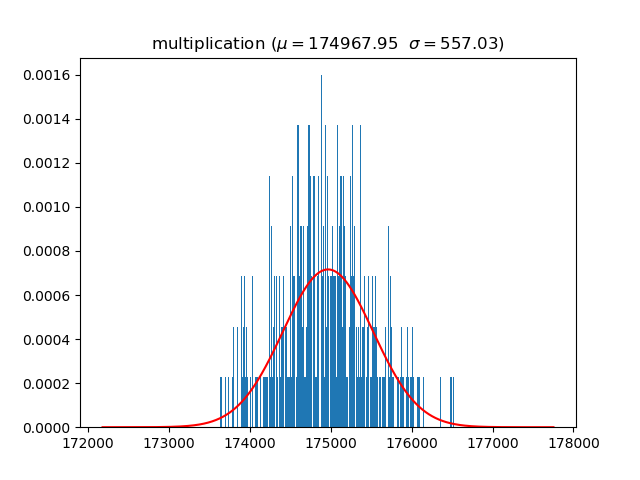
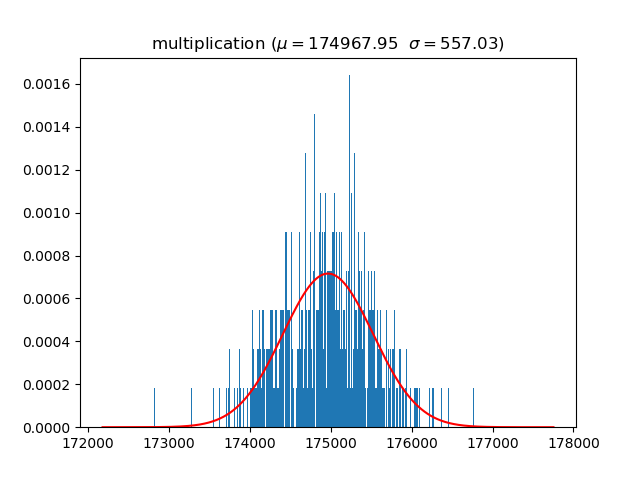
major update

diff --git a/ec_elgamal.py b/ec_elgamal.py
@@ -13,19 +13,50 @@ from scipy.stats import norm
 import statistics as stat
 import scipy.stats as stats
 import matplotlib.pyplot as plt
+import yaml
+from argparse import ArgumentParser
+
+# =============================
+# option analysis
+# =============================
+def get_option(ecparams, loop, tlength, weight):
+  argparser = ArgumentParser()
+  argparser.add_argument('-ecp', '--ecparams', type=str,
+                          default=ecparams,
+                          help='Specify type of ec-parameter')
+  argparser.add_argument('-l', '--loop', type=int,
+                          default=loop,
+                          help='Specify number of loops')
+  argparser.add_argument('-t', '--tlength', type=int,
+                          default=tlength,
+                          help='Specify number of t-length')
+  argparser.add_argument('-w', '--weight', type=int,
+                          default=weight,
+                          help='Specify number of hamming weight')
+  return argparser.parse_args()
+
+
+# =============================
+# yaml import
+# =============================
+args = get_option('config1', 1000, 256, 128)
+with open('./parameters/'+args.ecparams+'.yml', 'r') as yml:
+  config = yaml.load(yml, Loader=yaml.FullLoader)
 
 # =============================
 # global constants
 # =============================
-INF = -1
-MODULO_P = 0xfffffffffffffffffffffffffffffffffffffffffffffffffffffffefffffc2f # 256bit
-BIT = 256
-A = 0x0000000000000000000000000000000000000000000000000000000000000000
-B = 0x0000000000000000000000000000000000000000000000000000000000000007
-N = 100
+INF = 999999999999999999999999999999999999999999999999999999999999999999999999999999999999999999
+MODULO_P = int(config['ec_params']['modulo_p'])
+A = int(config['ec_params']['a'])
+B = int(config['ec_params']['b'])
+BIT = len(bin(MODULO_P)[2:])
+N = 100 # N is used when convert Message to Point, and Point to Message
 P_DOUBLE = 5/6
 P_ADD = 2/3
-LOOP = 500
+LOOP = args.loop
+ALPHA = (12*math.log(2)*math.log(2**BIT))/(math.pi**2) + 1.467
+SIGMA_BASE = config['ec_params']['sigma_base'] # depend on MODULO_P
 
 # =============================
 # variables for analysis
@@ -115,6 +146,14 @@ def modinv(a: int, m: int):
   (inv, _, _) = egcd(a, m)
   return opr.modulo(inv, m) # not perform reductions.
 
+def generate_d(t: int, w: int):
+  # generate a list with the correct number of 1's
+  x = [1]*(w-1)+[0]*(t-w)
+  random.shuffle(x)
+  x = [1]+x
+  # convert back to a number
+  return int(''.join(map(str, x)), 2)
+
 # return true if called from ElGamalDec
 def calledFromElGamalDec():
   stack = inspect.stack()
@@ -201,25 +240,27 @@ def ElGamalDec(C1: Point, C2: Point, d: int):
 # main function
 # =============================
 if __name__ == '__main__':
-  GP = MsgToPoint(0xffffffff222ffff9dcbbac55eeefffffffff)
+  GP = MsgToPoint(generate_d(args.tlength-1, args.weight))
 
   # generate secret key and public key
-  d = 0x49be667ef9dcbbac55b06295ce870b0702900cdb2dce28d959f9425b16f81798
+  # d = 0x49be667ef9dcbbac55b06295ce870b0702900cdb2dce28d959f9425b16f81798
+  d = generate_d(args.tlength, args.weight)
   d_bit_seq = bin(d)[2:]
   t = len(d_bit_seq)
   w = d_bit_seq.count("1")
 
+  if BIT < args.tlength:
+    print('tlength must be least than BIT(length of MODULO_P)')
+    sys.exit()
+
   # analysis of distributions
-  alpha = (12*math.log(2)*math.log(2**BIT))/(math.pi**2) + 1.467
   iteration = (t+w-1)
-  root = 9.5
-  mu_mult = (t-1)*(3*alpha+6)+w*(3*alpha+3)
-  mu_reduction = alpha*(t+w-1)+3*(t-1)*P_DOUBLE+3*w*P_ADD
-  sigma_mult = 3*root*math.sqrt(iteration)
-  sigma_reduction = root*math.sqrt(iteration)
+  mu_mult = (t-1)*(3*ALPHA+6)+w*(3*ALPHA+3)
+  mu_reduction = ALPHA*(t+w-1)+3*(t-1)*P_DOUBLE+3*w*P_ADD
+  sigma_mult = 3*SIGMA_BASE*math.sqrt(iteration)
+  sigma_reduction = SIGMA_BASE*math.sqrt(iteration)
   mu = mu_mult + mu_reduction
   sigma = sigma_mult + sigma_reduction
-  # sigma = math.sqrt(sigma_mult**2 + sigma_reduction**2)
 
   PUBLIC_KEY = Binary(d, GP)
 
@@ -243,16 +284,20 @@ if __name__ == '__main__':
 
   print("========== Result ==========")
   print("correctness: {0}/{1}".format(correct, LOOP))
+  print("=================== global constants ==================")
   print("GP = {0}".format(vars(GP)))
   print("PUBLIC_KEY = {0}".format(vars(PUBLIC_KEY)))
   print('d = {0} ({1}bits)'.format(d, t))
   print("Hamming weight of d: {0}".format(w))
+  print("MODULO_P: {0} ({1} bits)".format(MODULO_P, BIT))
+  print("A: {0}".format(A))
+  print("B: {0}".format(B))
   print("=================== egcd ==================")
-  print("Average of egcd count (theoretical, namely alpha): {0}".format(alpha))
+  print("Average of egcd count (theoretical, namely ALPHA): {0}".format(ALPHA))
   print("Average of egcd count (experimental) = {0}".format(stat.mean(egcd_count_list)))
-  print("Standard deviation of egcd count (theoretical, namely alpha): {0}".format(root))
+  print("Standard deviation of egcd count (theoretical, namely SIGMA_BASE): {0}".format(SIGMA_BASE))
   print("Standard deviation of egcd count (experimental) = {0}".format(stat.pstdev(egcd_count_list)))
-  print("Variance value of egcd count (theoretical, namely alpha): {0}".format(root**2))
+  print("Variance value of egcd count (theoretical): {0}".format(SIGMA_BASE**2))
   print("Variance value of egcd count (experimental) = {0}".format(stat.pvariance(egcd_count_list)))
   print("================== multiplication ===================")
   print("Average multiplication (theoretical) = {0}".format(mu_mult))
@@ -275,7 +320,7 @@ if __name__ == '__main__':
   print("Standard deviation of computation (experimental) = {0}".format(stat.pstdev(total_list)))
   print("Variance value of computation (theoretical) = {0}".format(sigma**2))
   print("Variance value of computation (experimental) = {0}".format(stat.pvariance(total_list)))
-  print("================== test wheter normal distribution (p > 0.05) ===================")
+  print("================== test whether normal distribution (p > 0.05) ===================")
   if LOOP <= 5000:
     print("Shapiro-Wilk test")
     print("multiply: {0}".format(stats.shapiro(mult_list)))
@@ -297,8 +342,8 @@ if __name__ == '__main__':
   X = np.arange(mu_mult-sigma_mult*5, mu_mult+sigma_mult*5, 1)
   Y = norm.pdf(X, loc=mu_mult, scale=sigma_mult)
   plt.plot(X, Y, 'r-')
-  plt.title("multiplication ($\mu = {0} \ \ \sigma = {1}$)".format(round(mu_mult, 2), round(sigma_mult, 2)))
-  plt.savefig("ec_elgamal_mult.png")
+  plt.title("Multiplication ($\mu = {0} \ \ \sigma = {1}$)".format(round(mu_mult, 2), round(sigma_mult, 2)))
+  plt.savefig("picture/ec_elgamal_mult.png")
   plt.show()
 
   # reduction (57600 ~ 59200)
@@ -306,9 +351,9 @@ if __name__ == '__main__':
   X = np.arange(mu_reduction-sigma_reduction*5, mu_reduction+sigma_reduction*5, 1)
   Y = norm.pdf(X, loc=mu_reduction, scale=sigma_reduction)
   plt.plot(X, Y, 'b-')
-  plt.title("reduction ($\mu = {0} \ \ \sigma = {1}$)".format(
+  plt.title("Reduction ($\mu = {0} \ \ \sigma = {1}$)".format(
       round(mu_reduction, 2), round(sigma_reduction, 2)))
-  plt.savefig("ec_elgamal_reduction.png")
+  plt.savefig("picture/ec_elgamal_reduction.png")
   plt.show()
 
   # total computation
@@ -318,8 +363,8 @@ if __name__ == '__main__':
   X = np.arange(mu-sigma*5, mu+sigma*5, 1)
   Y = norm.pdf(X, loc=mu, scale=sigma)
   plt.plot(X, Y, 'g-')
-  plt.title("total ($\mu = {0} \ \  \sigma = {1}$)".format(round(mu, 2), round(sigma, 2)))
-  plt.savefig("ec_elgamal_total.png")
+  plt.title("Total ($\mu = {0} \ \  \sigma = {1}$)".format(round(mu, 2), round(sigma, 2)))
+  plt.savefig("picture/ec_elgamal_total.png")
   plt.show()
 
   # total computation
@@ -329,16 +374,14 @@ if __name__ == '__main__':
   X = np.arange(mu-sigma*5, mu+sigma*5, 1)
   Y = norm.pdf(X, loc=mu, scale=sigma)
   plt.plot(X, Y, 'g-')
-  plt.savefig("ec_elgamal_total_sum.png")
+  plt.savefig("picture/ec_elgamal_total_sum.png")
   plt.show()
 
   # egcd_count
   plt.hist(egcd_count_list, bins=len(set(egcd_count_list)), density=True)
-  X = np.arange(100, 200, 0.1)
-  Y = norm.pdf(X, loc=alpha, scale=root)
+  X = np.arange(60, 200, 0.1)
+  Y = norm.pdf(X, loc=ALPHA, scale=SIGMA_BASE)
   plt.plot(X, Y, 'r-')
-  plt.title("egcd iteration ($\mu = {0} \ \ \sigma = {1}$)".format(round(alpha, 2), round(root, 2)))
-  plt.savefig("ec_elgamal_egcd_count.png")
+  plt.title("Egcd Iteration ($\mu = {0} \ \ \sigma = {1}$)".format(round(ALPHA, 2), round(SIGMA_BASE, 2)))
+  plt.savefig("picture/ec_elgamal_egcd_count.png")
   plt.show()
-
-
